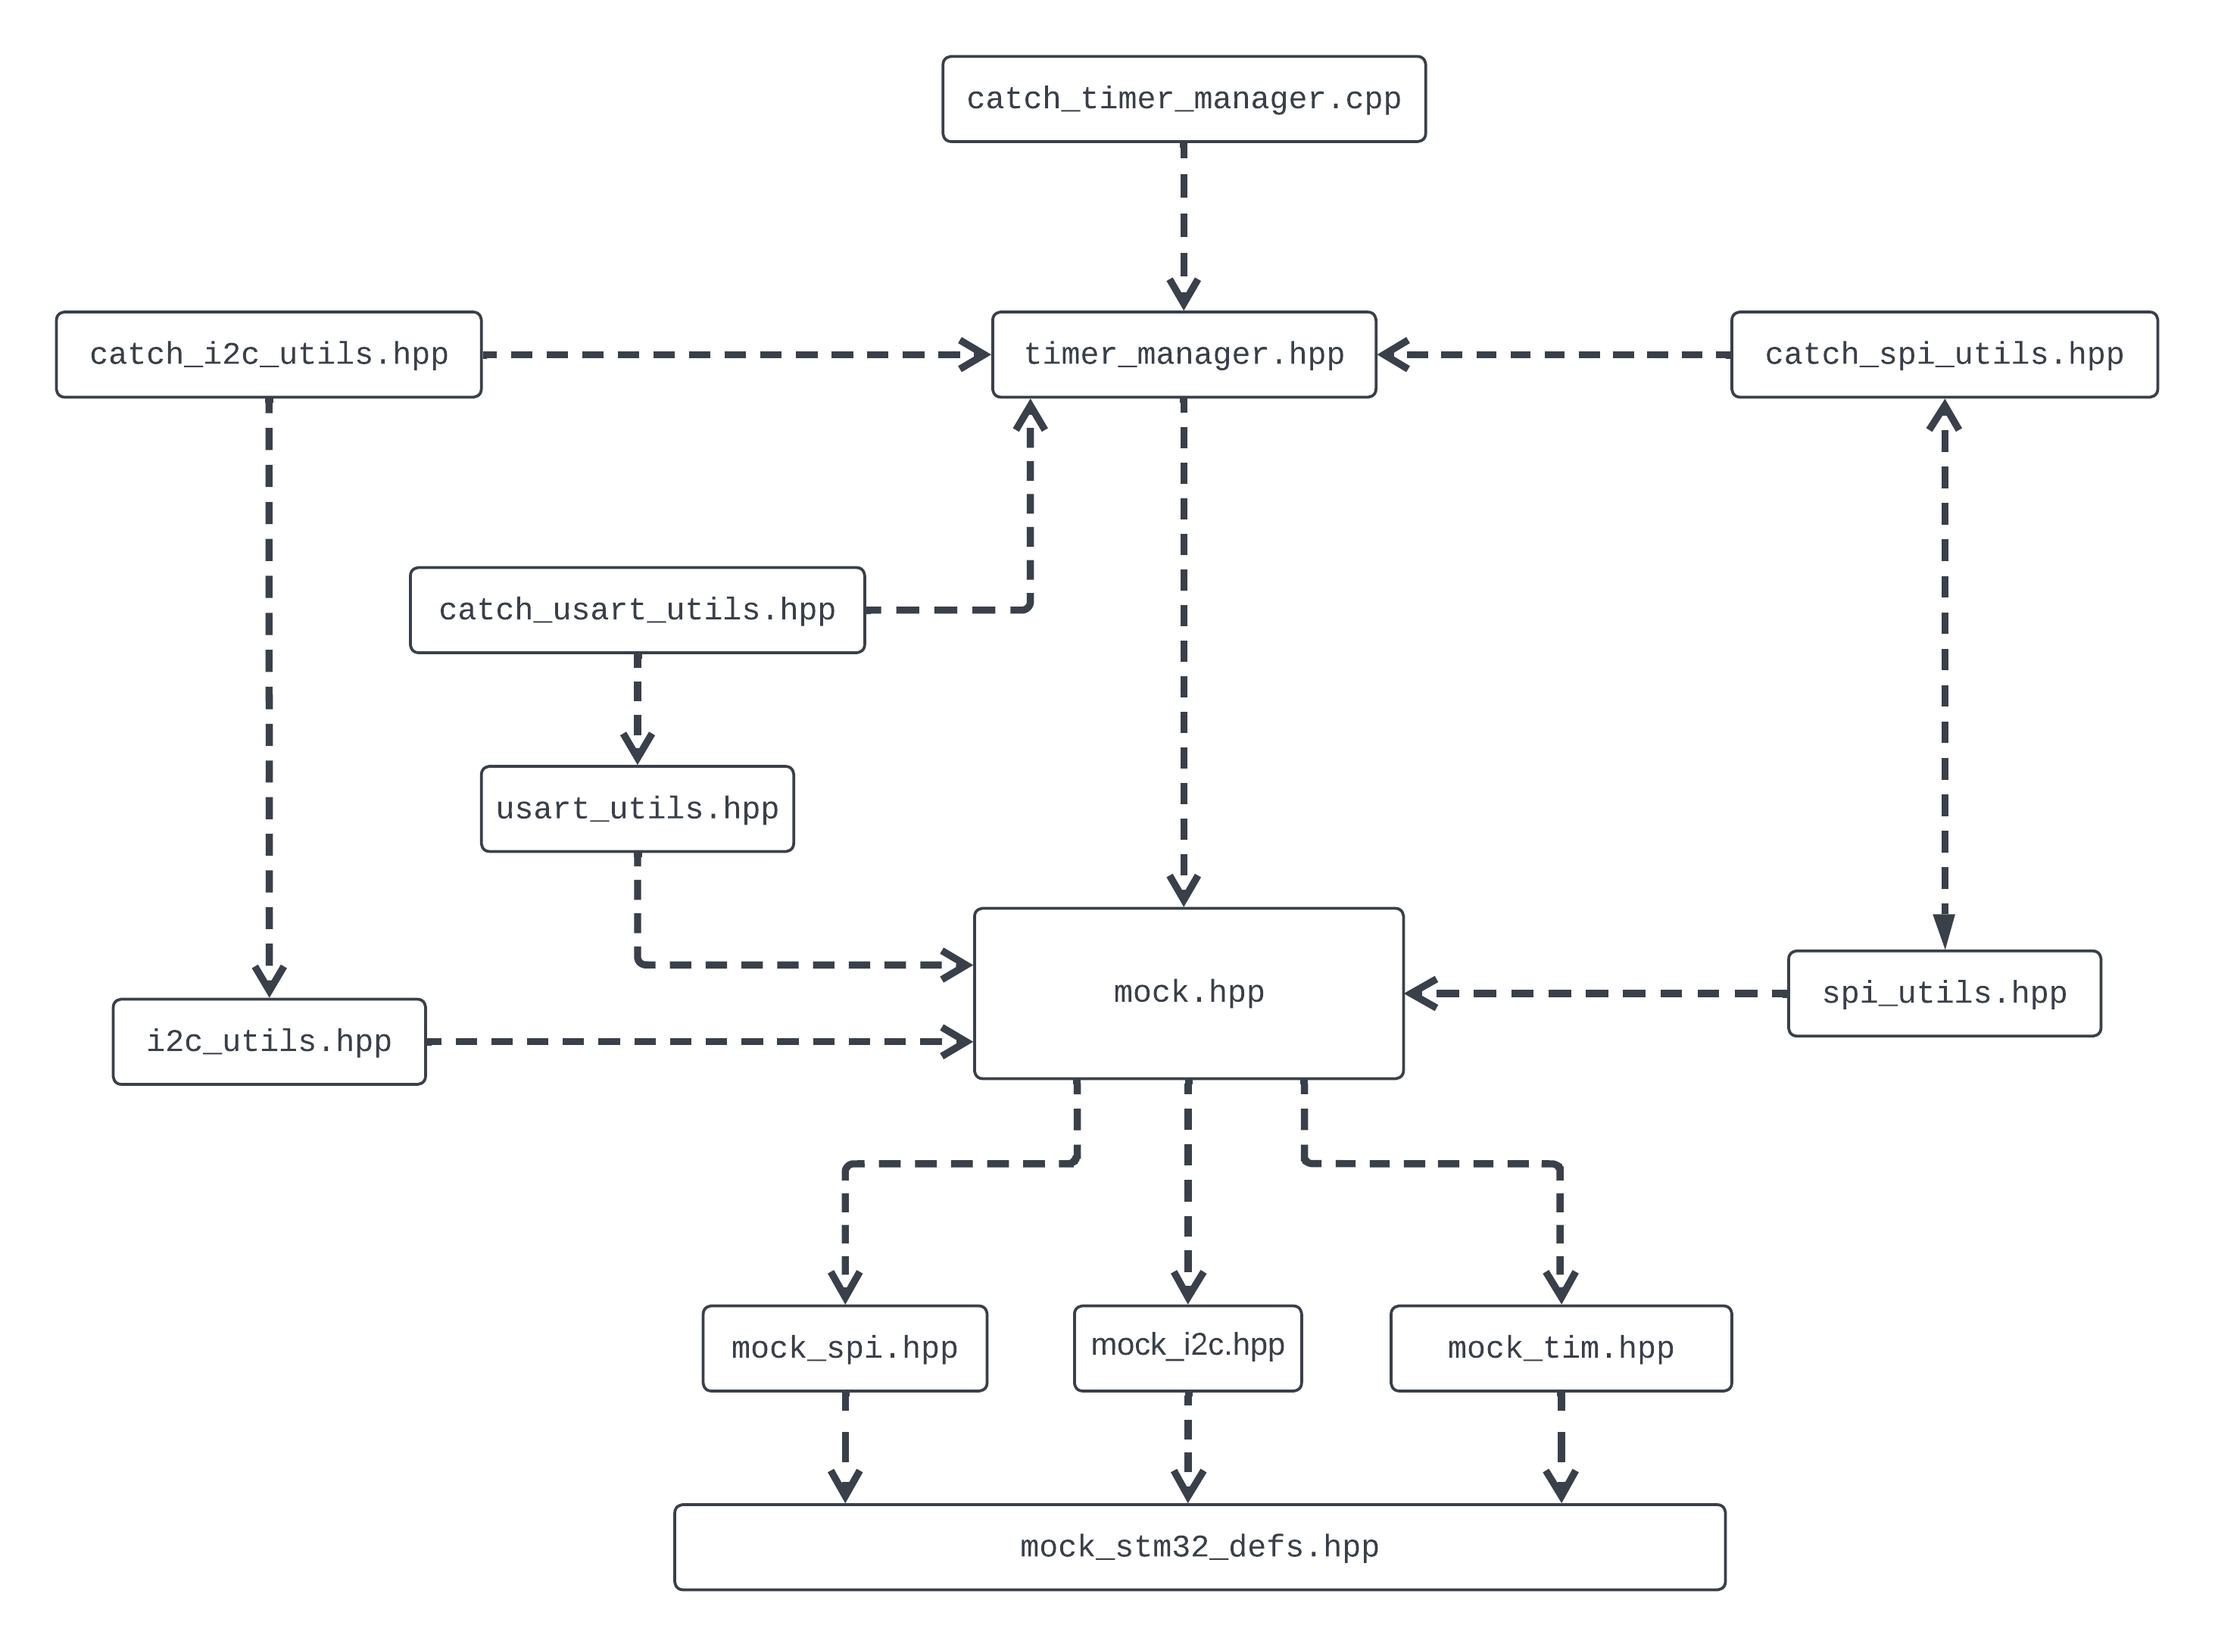
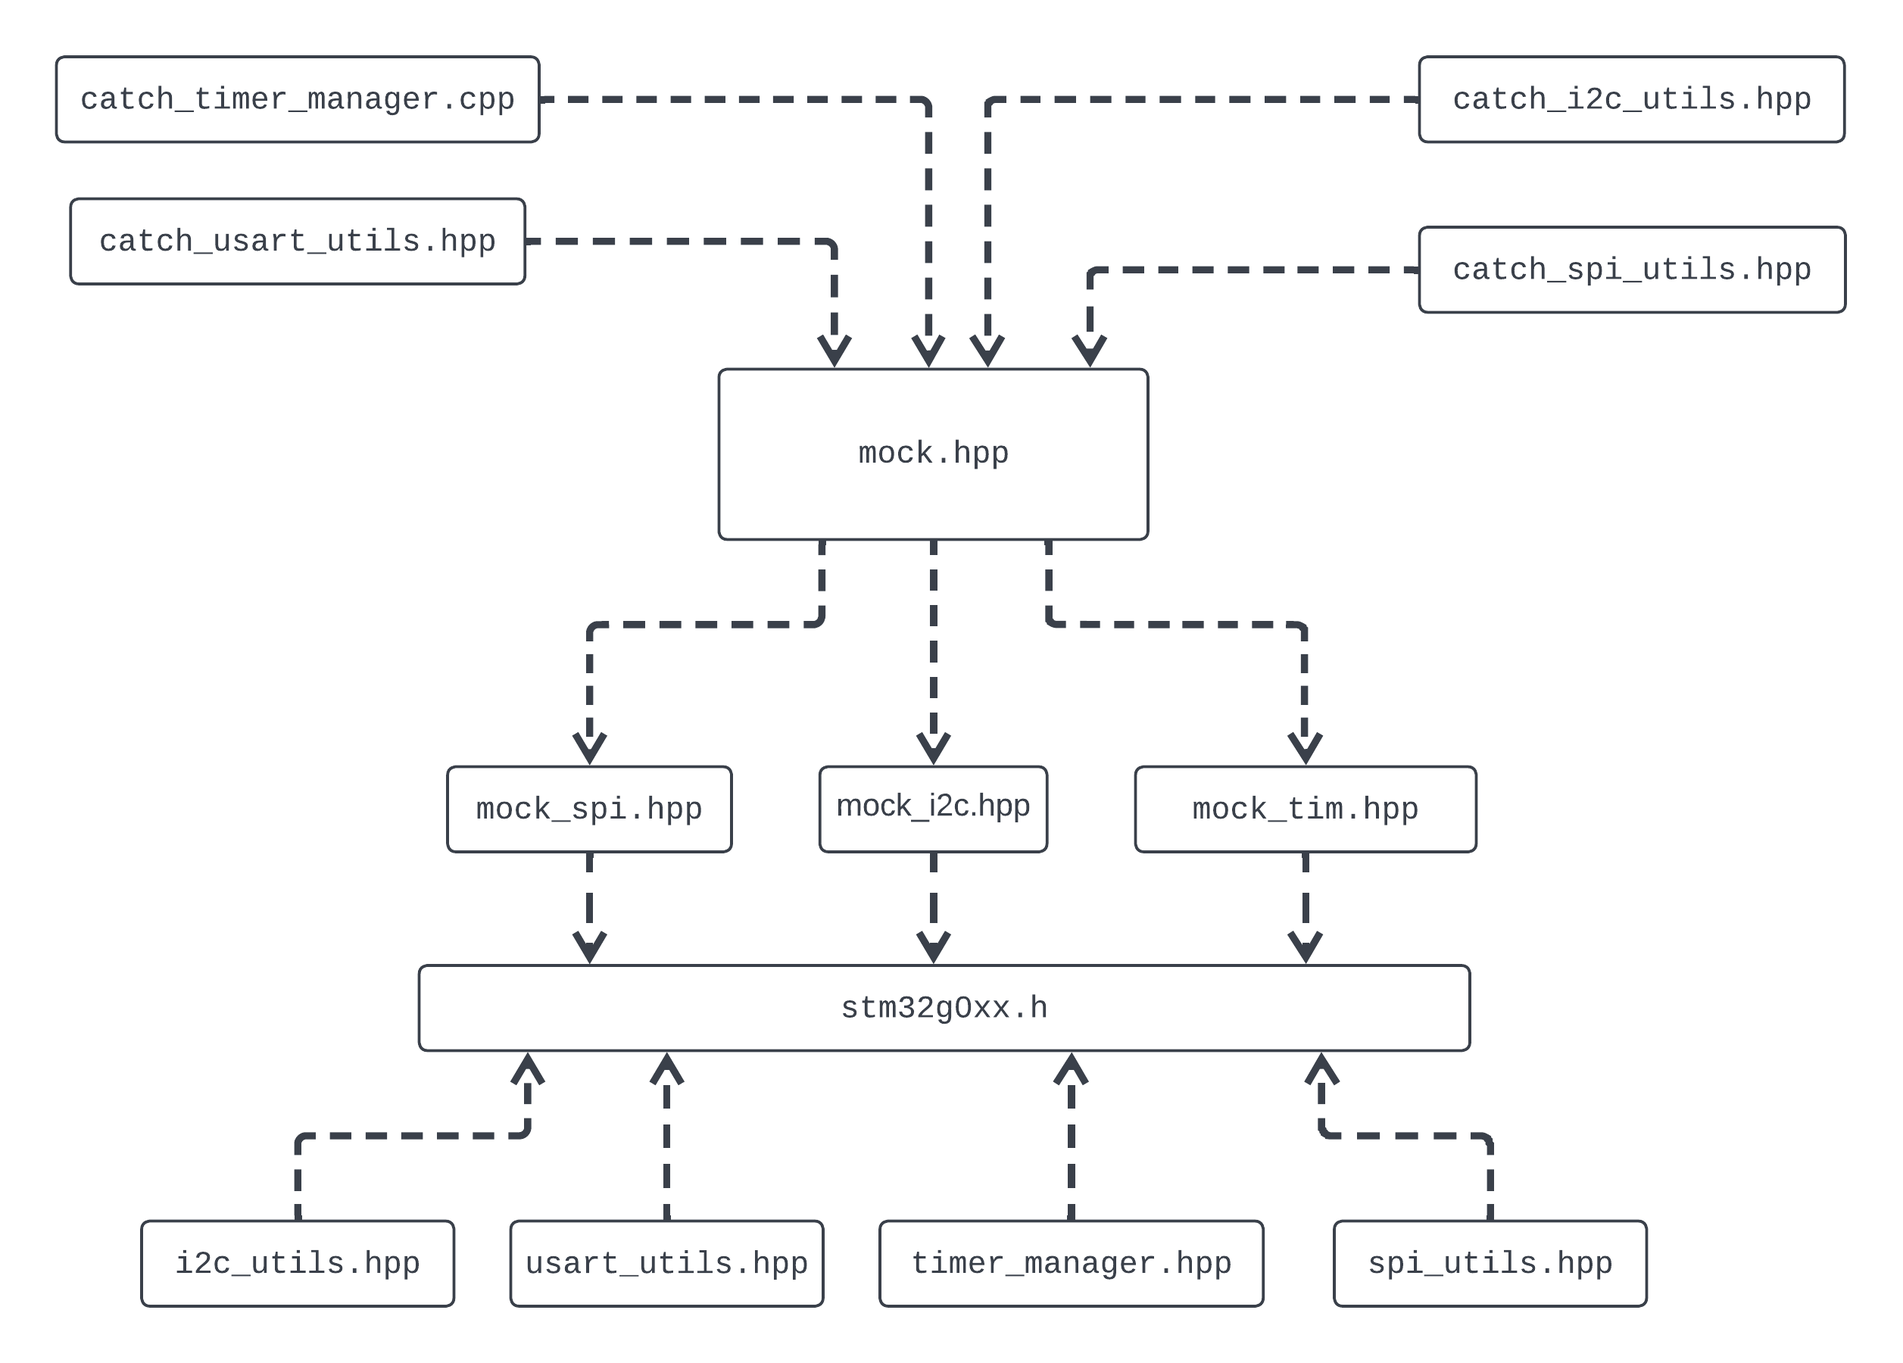
updated docs

diff --git a/include/bitset_utils.hpp b/include/bitset_utils.hpp
@@ -136,21 +136,21 @@ USED_API void print_bits(std::bitset<BITSET_SIZE> &pattern [[maybe_unused]])
         }
         SEGGER_RTT_printf(0, "\n");       
     #endif
-    // #ifdef X86_UNIT_TESTING_ONLY
-    //     for (uint16_t idx = 0; idx < pattern.size(); idx++)
-    //     {
-    //         if (idx % 8 == 0)
-    //         {
-    //             std::cout << " ";
-    //         }
-    //         if (idx % 64 == 0)
-    //         {
-    //             std::cout << std::endl;
-    //         }
-    //         std::cout << std::noboolalpha << pattern.test(idx);
-    //     }
-    //     std::cout << std::endl;
-    // #endif
+    #ifdef X86_UNIT_TESTING_ONLY
+        for (uint16_t idx = 0; idx < pattern.size(); idx++)
+        {
+            if (idx % 8 == 0)
+            {
+                std::cout << " ";
+            }
+            if (idx % 64 == 0)
+            {
+                std::cout << std::endl;
+            }
+            std::cout << std::noboolalpha << pattern.test(idx);
+        }
+        std::cout << std::endl;
+    #endif
 }
 
 } // namespace noarch::bit_manip

diff --git a/include/timer_manager.hpp b/include/timer_manager.hpp
@@ -23,15 +23,13 @@
 #ifndef __TIMER_MANAGER_HPP__
 #define __TIMER_MANAGER_HPP__
 
-
-	// add groups for device family    
-	#if defined (STM32G071xx) || defined (STM32G081xx) || defined (STM32G070xx) \
-	|| defined (STM32G030xx) || defined (STM32G031xx) || defined (STM32G041xx) \
-	|| defined (STM32G0B0xx) || defined (STM32G0B1xx) || defined (STM32G0C1xx) \
-	|| defined (STM32G050xx) || defined (STM32G051xx) || defined (STM32G061xx)	    
-        #include <stm32g0xx.h>
-    #endif
-
+// add groups for device family    
+#if defined (STM32G071xx) || defined (STM32G081xx) || defined (STM32G070xx) \
+|| defined (STM32G030xx) || defined (STM32G031xx) || defined (STM32G041xx) \
+|| defined (STM32G0B0xx) || defined (STM32G0B1xx) || defined (STM32G0C1xx) \
+|| defined (STM32G050xx) || defined (STM32G051xx) || defined (STM32G061xx)	    
+    #include <stm32g0xx.h>
+#endif
 
 #include <restricted_base.hpp>
 

diff --git a/include/usart_utils.hpp b/include/usart_utils.hpp
@@ -23,15 +23,13 @@
 #ifndef __USART_UTILS_HPP__
 #define __USART_UTILS_HPP__
 
-
-	// add groups for device family
-	#if defined (STM32G071xx) || defined (STM32G081xx) || defined (STM32G070xx) \
-	|| defined (STM32G030xx) || defined (STM32G031xx) || defined (STM32G041xx) \
-	|| defined (STM32G0B0xx) || defined (STM32G0B1xx) || defined (STM32G0C1xx) \
-	|| defined (STM32G050xx) || defined (STM32G051xx) || defined (STM32G061xx)		
-		#include <stm32g0xx.h>	
-	#endif
-
+// add groups for device family
+#if defined (STM32G071xx) || defined (STM32G081xx) || defined (STM32G070xx) \
+|| defined (STM32G030xx) || defined (STM32G031xx) || defined (STM32G041xx) \
+|| defined (STM32G0B0xx) || defined (STM32G0B1xx) || defined (STM32G0C1xx) \
+|| defined (STM32G050xx) || defined (STM32G051xx) || defined (STM32G061xx)		
+	#include <stm32g0xx.h>	
+#endif
 
 namespace stm32::usart
 {

diff --git a/include/spi_utils.hpp b/include/spi_utils.hpp
@@ -23,13 +23,13 @@
 #ifndef __SPI_UTILS_HPP__
 #define __SPI_UTILS_HPP__
 
-	// add groups for device family
-	#if defined (STM32G071xx) || defined (STM32G081xx) || defined (STM32G070xx) \
-	|| defined (STM32G030xx) || defined (STM32G031xx) || defined (STM32G041xx) \
-	|| defined (STM32G0B0xx) || defined (STM32G0B1xx) || defined (STM32G0C1xx) \
-	|| defined (STM32G050xx) || defined (STM32G051xx) || defined (STM32G061xx)		
-		#include <stm32g0xx.h>
-	#endif
+// add groups for device family
+#if defined (STM32G071xx) || defined (STM32G081xx) || defined (STM32G070xx) \
+|| defined (STM32G030xx) || defined (STM32G031xx) || defined (STM32G041xx) \
+|| defined (STM32G0B0xx) || defined (STM32G0B1xx) || defined (STM32G0C1xx) \
+|| defined (STM32G050xx) || defined (STM32G051xx) || defined (STM32G061xx)		
+	#include <stm32g0xx.h>
+#endif
 
 
 namespace stm32::spi

diff --git a/tests/README.md b/tests/README.md
@@ -8,13 +8,15 @@ See `.vscode/tasks.json` for details on the individual toolchain commands.
 
 ## CMSIS Mocking
 
-The `mocks` directory contains a modified version of the ST's CMSIS definitions for STM32G0B1 devices. 
+The `mocks` directory contains a modified version of the ST's [stm32g0xx.h](mocks/stm32g0xx.h). 
 
 - All peripheral typedefs (TIM_TypeDef, SPI_TypeDef, etc...) have their memebers initialised to zero values (0x00000000) 
 - All the peripheral declarations (TIM1, SPI3, etc...) are non-const so that they can be instatiated in unit tests.
 - Limited peripheral functionality has been recreated (timer count, SPI/I2C/USART FIFO status checking, etc..). These functions should be used in separate threads so that they can act on the registers independent from the unit tests. Examples can be found in [catch_i2c_utills](catch_i2c_utils.cpp#L64) amongst others.
 
-The dependency tree of the mocks are structured so that you only need to include the [mock.hpp](mocks/mock.hpp) file:
+The dependency tree of the mocks are structured so that the drivers should still include `stm32g0xx.h`. This means that the driver `stm32g0xx.h` dependency will resolve correctly when building for both x86-based unit test and the STM32 target.
+
+Unit tests should include the [mock.hpp](mocks/mock.hpp) file, which holds additional STL libraries useful for testing but unsuitable for a microcontroller target.
 
 ![](../doc/Mock_CMSIS_Dependency_Diagram.png)
 
